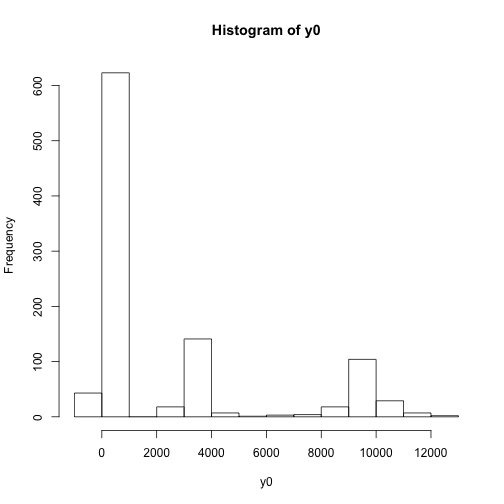
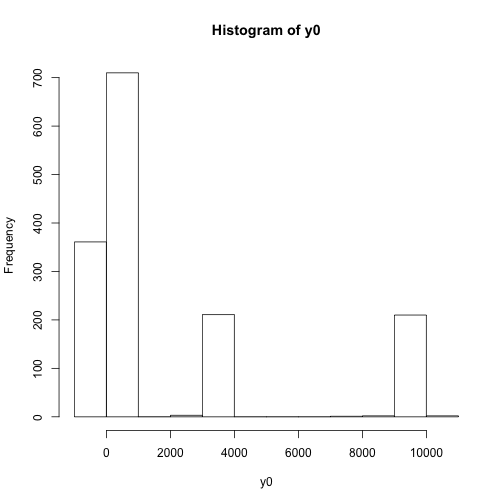
Tweak HW6 again

diff --git a/projects/615/HW6/HW6.html b/projects/615/HW6/HW6.html
@@ -1117,81 +1117,28 @@ p(y_0|y, X, x_0) = \int p(y_0|\theta, x_0, y)p(\theta|y, X) d\theta \approx \fra
 
 <div class="chunk" id="pred"><div class="rcode"><div class="source"><pre class="knitr r"><span class="hl std">x0</span> <span class="hl kwb">&lt;-</span> <span class="hl kwd">c</span><span class="hl std">(</span><span class="hl num">1</span><span class="hl std">,</span> <span class="hl num">938</span><span class="hl std">,</span> <span class="hl num">332</span><span class="hl std">,</span> <span class="hl num">25</span><span class="hl std">,</span> <span class="hl num">3</span><span class="hl std">,</span> <span class="hl num">1</span><span class="hl std">,</span> <span class="hl num">0</span><span class="hl std">)</span>
 <span class="hl std">s0</span> <span class="hl kwb">&lt;-</span> <span class="hl kwd">c</span><span class="hl std">(</span><span class="hl num">30.506</span><span class="hl std">,</span> <span class="hl opt">-</span><span class="hl num">91.1174</span><span class="hl std">)</span>
-<span class="hl std">la</span> <span class="hl kwb">&lt;-</span> <span class="hl kwd">extract</span><span class="hl std">(fit,</span> <span class="hl kwc">permuted</span> <span class="hl std">=</span> <span class="hl num">TRUE</span><span class="hl std">)</span>  <span class="hl com"># return a list of arrays (with draws after the warmup period)</span>
-</pre></div>
-
-<div class="error"><pre class="knitr r">## Error: could not find function "extract"
-</pre></div>
-
-<div class="source"><pre class="knitr r"><span class="hl com"># put parameters back on original scale</span>
+<span class="hl std">la</span> <span class="hl kwb">&lt;-</span> <span class="hl std">rstan::</span><span class="hl kwd">extract</span><span class="hl std">(fit,</span> <span class="hl kwc">permuted</span> <span class="hl std">=</span> <span class="hl num">TRUE</span><span class="hl std">)</span>  <span class="hl com"># return a list of arrays (with draws after the warmup period)</span>
+<span class="hl com"># put parameters back on original scale</span>
 <span class="hl std">xbar</span> <span class="hl kwb">&lt;-</span> <span class="hl kwd">apply</span><span class="hl std">(mod[,</span> <span class="hl opt">-</span><span class="hl num">1</span><span class="hl std">],</span> <span class="hl num">2</span><span class="hl std">, mean)</span>
 <span class="hl std">s_x</span> <span class="hl kwb">&lt;-</span> <span class="hl kwd">apply</span><span class="hl std">(mod[,</span> <span class="hl opt">-</span><span class="hl num">1</span><span class="hl std">],</span> <span class="hl num">2</span><span class="hl std">, sd)</span>
 <span class="hl std">ybar</span> <span class="hl kwb">&lt;-</span> <span class="hl kwd">mean</span><span class="hl std">(br.geo</span><span class="hl opt">$</span><span class="hl std">data)</span>
 <span class="hl std">s_y</span> <span class="hl kwb">&lt;-</span> <span class="hl kwd">sd</span><span class="hl std">(br.geo</span><span class="hl opt">$</span><span class="hl std">data)</span>
 <span class="hl std">B0</span> <span class="hl kwb">&lt;-</span> <span class="hl std">ybar</span> <span class="hl opt">+</span> <span class="hl std">s_y</span> <span class="hl opt">*</span> <span class="hl std">(la</span><span class="hl opt">$</span><span class="hl std">beta[,</span> <span class="hl num">1</span><span class="hl std">]</span> <span class="hl opt">-</span> <span class="hl kwd">colSums</span><span class="hl std">(</span><span class="hl kwd">t</span><span class="hl std">(la</span><span class="hl opt">$</span><span class="hl std">beta[,</span> <span class="hl opt">-</span><span class="hl num">1</span><span class="hl std">])</span> <span class="hl opt">*</span> <span class="hl std">(xbar</span><span class="hl opt">/</span><span class="hl std">s_x)))</span>
-</pre></div>
-
-<div class="error"><pre class="knitr r">## Error: object 'la' not found
-</pre></div>
-
-<div class="source"><pre class="knitr r"><span class="hl std">B</span> <span class="hl kwb">&lt;-</span> <span class="hl kwd">t</span><span class="hl std">(</span><span class="hl kwd">t</span><span class="hl std">(la</span><span class="hl opt">$</span><span class="hl std">beta[,</span> <span class="hl opt">-</span><span class="hl num">1</span><span class="hl std">])</span> <span class="hl opt">*</span> <span class="hl std">(s_y</span><span class="hl opt">/</span><span class="hl std">s_x))</span>
-</pre></div>
-
-<div class="error"><pre class="knitr r">## Error: object 'la' not found
-</pre></div>
-
-<div class="source"><pre class="knitr r"><span class="hl std">Beta</span> <span class="hl kwb">&lt;-</span> <span class="hl kwd">cbind</span><span class="hl std">(B0, B)</span>
-</pre></div>
-
-<div class="error"><pre class="knitr r">## Error: object 'B0' not found
-</pre></div>
-
-<div class="source"><pre class="knitr r"><span class="hl std">eta_sq</span> <span class="hl kwb">&lt;-</span> <span class="hl std">s_y</span> <span class="hl opt">*</span> <span class="hl std">la</span><span class="hl opt">$</span><span class="hl std">eta_sq</span>
-</pre></div>
-
-<div class="error"><pre class="knitr r">## Error: object 'la' not found
-</pre></div>
-
-<div class="source"><pre class="knitr r"><span class="hl std">sigma_sq</span> <span class="hl kwb">&lt;-</span> <span class="hl std">s_y</span> <span class="hl opt">*</span> <span class="hl std">la</span><span class="hl opt">$</span><span class="hl std">sigma_sq</span>
-</pre></div>
-
-<div class="error"><pre class="knitr r">## Error: object 'la' not found
-</pre></div>
-
-<div class="source"><pre class="knitr r"><span class="hl com"># now calculate mean and covariance of predictive distribution</span>
+<span class="hl std">B</span> <span class="hl kwb">&lt;-</span> <span class="hl kwd">t</span><span class="hl std">(</span><span class="hl kwd">t</span><span class="hl std">(la</span><span class="hl opt">$</span><span class="hl std">beta[,</span> <span class="hl opt">-</span><span class="hl num">1</span><span class="hl std">])</span> <span class="hl opt">*</span> <span class="hl std">(s_y</span><span class="hl opt">/</span><span class="hl std">s_x))</span>
+<span class="hl std">Beta</span> <span class="hl kwb">&lt;-</span> <span class="hl kwd">cbind</span><span class="hl std">(B0, B)</span>
+<span class="hl std">eta_sq</span> <span class="hl kwb">&lt;-</span> <span class="hl std">s_y</span> <span class="hl opt">*</span> <span class="hl std">la</span><span class="hl opt">$</span><span class="hl std">eta_sq</span>
+<span class="hl std">sigma_sq</span> <span class="hl kwb">&lt;-</span> <span class="hl std">s_y</span> <span class="hl opt">*</span> <span class="hl std">la</span><span class="hl opt">$</span><span class="hl std">sigma_sq</span>
+<span class="hl com"># now calculate mean and covariance of predictive distribution</span>
 <span class="hl std">xb</span> <span class="hl kwb">&lt;-</span> <span class="hl kwd">colSums</span><span class="hl std">(</span><span class="hl kwd">t</span><span class="hl std">(Beta</span> <span class="hl opt">*</span> <span class="hl std">x0))</span>
-</pre></div>
-
-<div class="error"><pre class="knitr r">## Error: object 'Beta' not found
-</pre></div>
-
-<div class="source"><pre class="knitr r"><span class="hl std">y0</span> <span class="hl kwb">&lt;-</span> <span class="hl kwd">numeric</span><span class="hl std">(</span><span class="hl kwd">length</span><span class="hl std">(xb))</span>
-</pre></div>
-
-<div class="error"><pre class="knitr r">## Error: object 'xb' not found
-</pre></div>
-
-<div class="source"><pre class="knitr r"><span class="hl std">sigma</span> <span class="hl kwb">&lt;-</span> <span class="hl kwd">sqrt</span><span class="hl std">(la</span><span class="hl opt">$</span><span class="hl std">sigma_sq</span> <span class="hl opt">*</span> <span class="hl std">(la</span><span class="hl opt">$</span><span class="hl std">eta_sq</span> <span class="hl opt">*</span> <span class="hl kwd">exp</span><span class="hl std">(</span><span class="hl opt">-</span><span class="hl std">la</span><span class="hl opt">$</span><span class="hl std">rho_sq)</span> <span class="hl opt">+</span> <span class="hl num">1</span><span class="hl std">))</span>
-</pre></div>
-
-<div class="error"><pre class="knitr r">## Error: object 'la' not found
-</pre></div>
-
-<div class="source"><pre class="knitr r"><span class="hl kwa">for</span> <span class="hl std">(i</span> <span class="hl kwa">in</span> <span class="hl kwd">seq_along</span><span class="hl std">(y0)) {</span>
+<span class="hl std">y0</span> <span class="hl kwb">&lt;-</span> <span class="hl kwd">numeric</span><span class="hl std">(</span><span class="hl kwd">length</span><span class="hl std">(xb))</span>
+<span class="hl std">sigma</span> <span class="hl kwb">&lt;-</span> <span class="hl kwd">sqrt</span><span class="hl std">(la</span><span class="hl opt">$</span><span class="hl std">sigma_sq</span> <span class="hl opt">*</span> <span class="hl std">(la</span><span class="hl opt">$</span><span class="hl std">eta_sq</span> <span class="hl opt">*</span> <span class="hl kwd">exp</span><span class="hl std">(</span><span class="hl opt">-</span><span class="hl std">la</span><span class="hl opt">$</span><span class="hl std">rho_sq)</span> <span class="hl opt">+</span> <span class="hl num">1</span><span class="hl std">))</span>
+<span class="hl kwa">for</span> <span class="hl std">(i</span> <span class="hl kwa">in</span> <span class="hl kwd">seq_along</span><span class="hl std">(y0)) {</span>
     <span class="hl std">y0[i]</span> <span class="hl kwb">&lt;-</span> <span class="hl kwd">rnorm</span><span class="hl std">(</span><span class="hl num">1</span><span class="hl std">,</span> <span class="hl kwc">mean</span> <span class="hl std">= xb[i],</span> <span class="hl kwc">sd</span> <span class="hl std">= sigma[i])</span>
 <span class="hl std">}</span>
+<span class="hl kwd">hist</span><span class="hl std">(y0)</span>
 </pre></div>
 
-<div class="error"><pre class="knitr r">## Error: object 'y0' not found
-</pre></div>
-
-<div class="source"><pre class="knitr r"><span class="hl kwd">hist</span><span class="hl std">(y0)</span>
-</pre></div>
-
-<div class="error"><pre class="knitr r">## Error: object 'y0' not found
-</pre></div>
-
-<p></div></div></p>
[1 lines of base64/hex data omitted]
 
 </body>
 

diff --git a/projects/615/HW6/HW6.md b/projects/615/HW6/HW6.md
@@ -173,57 +173,25 @@ Thus, we can take draws using the simulations generated in the previous step (ie
 
 <div class="chunk" id="pred"><div class="rcode"><div class="source"><pre class="knitr r"><span class="hl std">x0</span> <span class="hl kwb">&lt;-</span> <span class="hl kwd">c</span><span class="hl std">(</span><span class="hl num">1</span><span class="hl std">,</span> <span class="hl num">938</span><span class="hl std">,</span> <span class="hl num">332</span><span class="hl std">,</span> <span class="hl num">25</span><span class="hl std">,</span> <span class="hl num">3</span><span class="hl std">,</span> <span class="hl num">1</span><span class="hl std">,</span> <span class="hl num">0</span><span class="hl std">)</span>
 <span class="hl std">s0</span> <span class="hl kwb">&lt;-</span> <span class="hl kwd">c</span><span class="hl std">(</span><span class="hl num">30.506</span><span class="hl std">,</span> <span class="hl opt">-</span><span class="hl num">91.1174</span><span class="hl std">)</span>
-<span class="hl std">la</span> <span class="hl kwb">&lt;-</span> <span class="hl kwd">extract</span><span class="hl std">(fit,</span> <span class="hl kwc">permuted</span> <span class="hl std">=</span> <span class="hl num">TRUE</span><span class="hl std">)</span>  <span class="hl com"># return a list of arrays (with draws after the warmup period)</span>
-</pre></div>
-<div class="error"><pre class="knitr r">## Error: could not find function "extract"
-</pre></div>
-<div class="source"><pre class="knitr r"><span class="hl com"># put parameters back on original scale</span>
+<span class="hl std">la</span> <span class="hl kwb">&lt;-</span> <span class="hl std">rstan::</span><span class="hl kwd">extract</span><span class="hl std">(fit,</span> <span class="hl kwc">permuted</span> <span class="hl std">=</span> <span class="hl num">TRUE</span><span class="hl std">)</span>  <span class="hl com"># return a list of arrays (with draws after the warmup period)</span>
+<span class="hl com"># put parameters back on original scale</span>
 <span class="hl std">xbar</span> <span class="hl kwb">&lt;-</span> <span class="hl kwd">apply</span><span class="hl std">(mod[,</span> <span class="hl opt">-</span><span class="hl num">1</span><span class="hl std">],</span> <span class="hl num">2</span><span class="hl std">, mean)</span>
 <span class="hl std">s_x</span> <span class="hl kwb">&lt;-</span> <span class="hl kwd">apply</span><span class="hl std">(mod[,</span> <span class="hl opt">-</span><span class="hl num">1</span><span class="hl std">],</span> <span class="hl num">2</span><span class="hl std">, sd)</span>
 <span class="hl std">ybar</span> <span class="hl kwb">&lt;-</span> <span class="hl kwd">mean</span><span class="hl std">(br.geo</span><span class="hl opt">$</span><span class="hl std">data)</span>
 <span class="hl std">s_y</span> <span class="hl kwb">&lt;-</span> <span class="hl kwd">sd</span><span class="hl std">(br.geo</span><span class="hl opt">$</span><span class="hl std">data)</span>
 <span class="hl std">B0</span> <span class="hl kwb">&lt;-</span> <span class="hl std">ybar</span> <span class="hl opt">+</span> <span class="hl std">s_y</span> <span class="hl opt">*</span> <span class="hl std">(la</span><span class="hl opt">$</span><span class="hl std">beta[,</span> <span class="hl num">1</span><span class="hl std">]</span> <span class="hl opt">-</span> <span class="hl kwd">colSums</span><span class="hl std">(</span><span class="hl kwd">t</span><span class="hl std">(la</span><span class="hl opt">$</span><span class="hl std">beta[,</span> <span class="hl opt">-</span><span class="hl num">1</span><span class="hl std">])</span> <span class="hl opt">*</span> <span class="hl std">(xbar</span><span class="hl opt">/</span><span class="hl std">s_x)))</span>
-</pre></div>
-<div class="error"><pre class="knitr r">## Error: object 'la' not found
-</pre></div>
-<div class="source"><pre class="knitr r"><span class="hl std">B</span> <span class="hl kwb">&lt;-</span> <span class="hl kwd">t</span><span class="hl std">(</span><span class="hl kwd">t</span><span class="hl std">(la</span><span class="hl opt">$</span><span class="hl std">beta[,</span> <span class="hl opt">-</span><span class="hl num">1</span><span class="hl std">])</span> <span class="hl opt">*</span> <span class="hl std">(s_y</span><span class="hl opt">/</span><span class="hl std">s_x))</span>
-</pre></div>
-<div class="error"><pre class="knitr r">## Error: object 'la' not found
-</pre></div>
-<div class="source"><pre class="knitr r"><span class="hl std">Beta</span> <span class="hl kwb">&lt;-</span> <span class="hl kwd">cbind</span><span class="hl std">(B0, B)</span>
-</pre></div>
-<div class="error"><pre class="knitr r">## Error: object 'B0' not found
-</pre></div>
-<div class="source"><pre class="knitr r"><span class="hl std">eta_sq</span> <span class="hl kwb">&lt;-</span> <span class="hl std">s_y</span> <span class="hl opt">*</span> <span class="hl std">la</span><span class="hl opt">$</span><span class="hl std">eta_sq</span>
-</pre></div>
-<div class="error"><pre class="knitr r">## Error: object 'la' not found
-</pre></div>
-<div class="source"><pre class="knitr r"><span class="hl std">sigma_sq</span> <span class="hl kwb">&lt;-</span> <span class="hl std">s_y</span> <span class="hl opt">*</span> <span class="hl std">la</span><span class="hl opt">$</span><span class="hl std">sigma_sq</span>
-</pre></div>
-<div class="error"><pre class="knitr r">## Error: object 'la' not found
-</pre></div>
-<div class="source"><pre class="knitr r"><span class="hl com"># now calculate mean and covariance of predictive distribution</span>
+<span class="hl std">B</span> <span class="hl kwb">&lt;-</span> <span class="hl kwd">t</span><span class="hl std">(</span><span class="hl kwd">t</span><span class="hl std">(la</span><span class="hl opt">$</span><span class="hl std">beta[,</span> <span class="hl opt">-</span><span class="hl num">1</span><span class="hl std">])</span> <span class="hl opt">*</span> <span class="hl std">(s_y</span><span class="hl opt">/</span><span class="hl std">s_x))</span>
+<span class="hl std">Beta</span> <span class="hl kwb">&lt;-</span> <span class="hl kwd">cbind</span><span class="hl std">(B0, B)</span>
+<span class="hl std">eta_sq</span> <span class="hl kwb">&lt;-</span> <span class="hl std">s_y</span> <span class="hl opt">*</span> <span class="hl std">la</span><span class="hl opt">$</span><span class="hl std">eta_sq</span>
+<span class="hl std">sigma_sq</span> <span class="hl kwb">&lt;-</span> <span class="hl std">s_y</span> <span class="hl opt">*</span> <span class="hl std">la</span><span class="hl opt">$</span><span class="hl std">sigma_sq</span>
+<span class="hl com"># now calculate mean and covariance of predictive distribution</span>
 <span class="hl std">xb</span> <span class="hl kwb">&lt;-</span> <span class="hl kwd">colSums</span><span class="hl std">(</span><span class="hl kwd">t</span><span class="hl std">(Beta</span> <span class="hl opt">*</span> <span class="hl std">x0))</span>
-</pre></div>
-<div class="error"><pre class="knitr r">## Error: object 'Beta' not found
-</pre></div>
-<div class="source"><pre class="knitr r"><span class="hl std">y0</span> <span class="hl kwb">&lt;-</span> <span class="hl kwd">numeric</span><span class="hl std">(</span><span class="hl kwd">length</span><span class="hl std">(xb))</span>
-</pre></div>
-<div class="error"><pre class="knitr r">## Error: object 'xb' not found
-</pre></div>
-<div class="source"><pre class="knitr r"><span class="hl std">sigma</span> <span class="hl kwb">&lt;-</span> <span class="hl kwd">sqrt</span><span class="hl std">(la</span><span class="hl opt">$</span><span class="hl std">sigma_sq</span> <span class="hl opt">*</span> <span class="hl std">(la</span><span class="hl opt">$</span><span class="hl std">eta_sq</span> <span class="hl opt">*</span> <span class="hl kwd">exp</span><span class="hl std">(</span><span class="hl opt">-</span><span class="hl std">la</span><span class="hl opt">$</span><span class="hl std">rho_sq)</span> <span class="hl opt">+</span> <span class="hl num">1</span><span class="hl std">))</span>
-</pre></div>
-<div class="error"><pre class="knitr r">## Error: object 'la' not found
-</pre></div>
-<div class="source"><pre class="knitr r"><span class="hl kwa">for</span> <span class="hl std">(i</span> <span class="hl kwa">in</span> <span class="hl kwd">seq_along</span><span class="hl std">(y0)) {</span>
+<span class="hl std">y0</span> <span class="hl kwb">&lt;-</span> <span class="hl kwd">numeric</span><span class="hl std">(</span><span class="hl kwd">length</span><span class="hl std">(xb))</span>
+<span class="hl std">sigma</span> <span class="hl kwb">&lt;-</span> <span class="hl kwd">sqrt</span><span class="hl std">(la</span><span class="hl opt">$</span><span class="hl std">sigma_sq</span> <span class="hl opt">*</span> <span class="hl std">(la</span><span class="hl opt">$</span><span class="hl std">eta_sq</span> <span class="hl opt">*</span> <span class="hl kwd">exp</span><span class="hl std">(</span><span class="hl opt">-</span><span class="hl std">la</span><span class="hl opt">$</span><span class="hl std">rho_sq)</span> <span class="hl opt">+</span> <span class="hl num">1</span><span class="hl std">))</span>
+<span class="hl kwa">for</span> <span class="hl std">(i</span> <span class="hl kwa">in</span> <span class="hl kwd">seq_along</span><span class="hl std">(y0)) {</span>
     <span class="hl std">y0[i]</span> <span class="hl kwb">&lt;-</span> <span class="hl kwd">rnorm</span><span class="hl std">(</span><span class="hl num">1</span><span class="hl std">,</span> <span class="hl kwc">mean</span> <span class="hl std">= xb[i],</span> <span class="hl kwc">sd</span> <span class="hl std">= sigma[i])</span>
 <span class="hl std">}</span>
+<span class="hl kwd">hist</span><span class="hl std">(y0)</span>
 </pre></div>
-<div class="error"><pre class="knitr r">## Error: object 'y0' not found
-</pre></div>
-<div class="source"><pre class="knitr r"><span class="hl kwd">hist</span><span class="hl std">(y0)</span>
-</pre></div>
-<div class="error"><pre class="knitr r">## Error: object 'y0' not found
-</pre></div>
-</div></div>
+</div><div class="rimage default"><img src="figure/pred.png" title="plot of chunk pred" alt="plot of chunk pred" class="plot" /></div></div>
 
